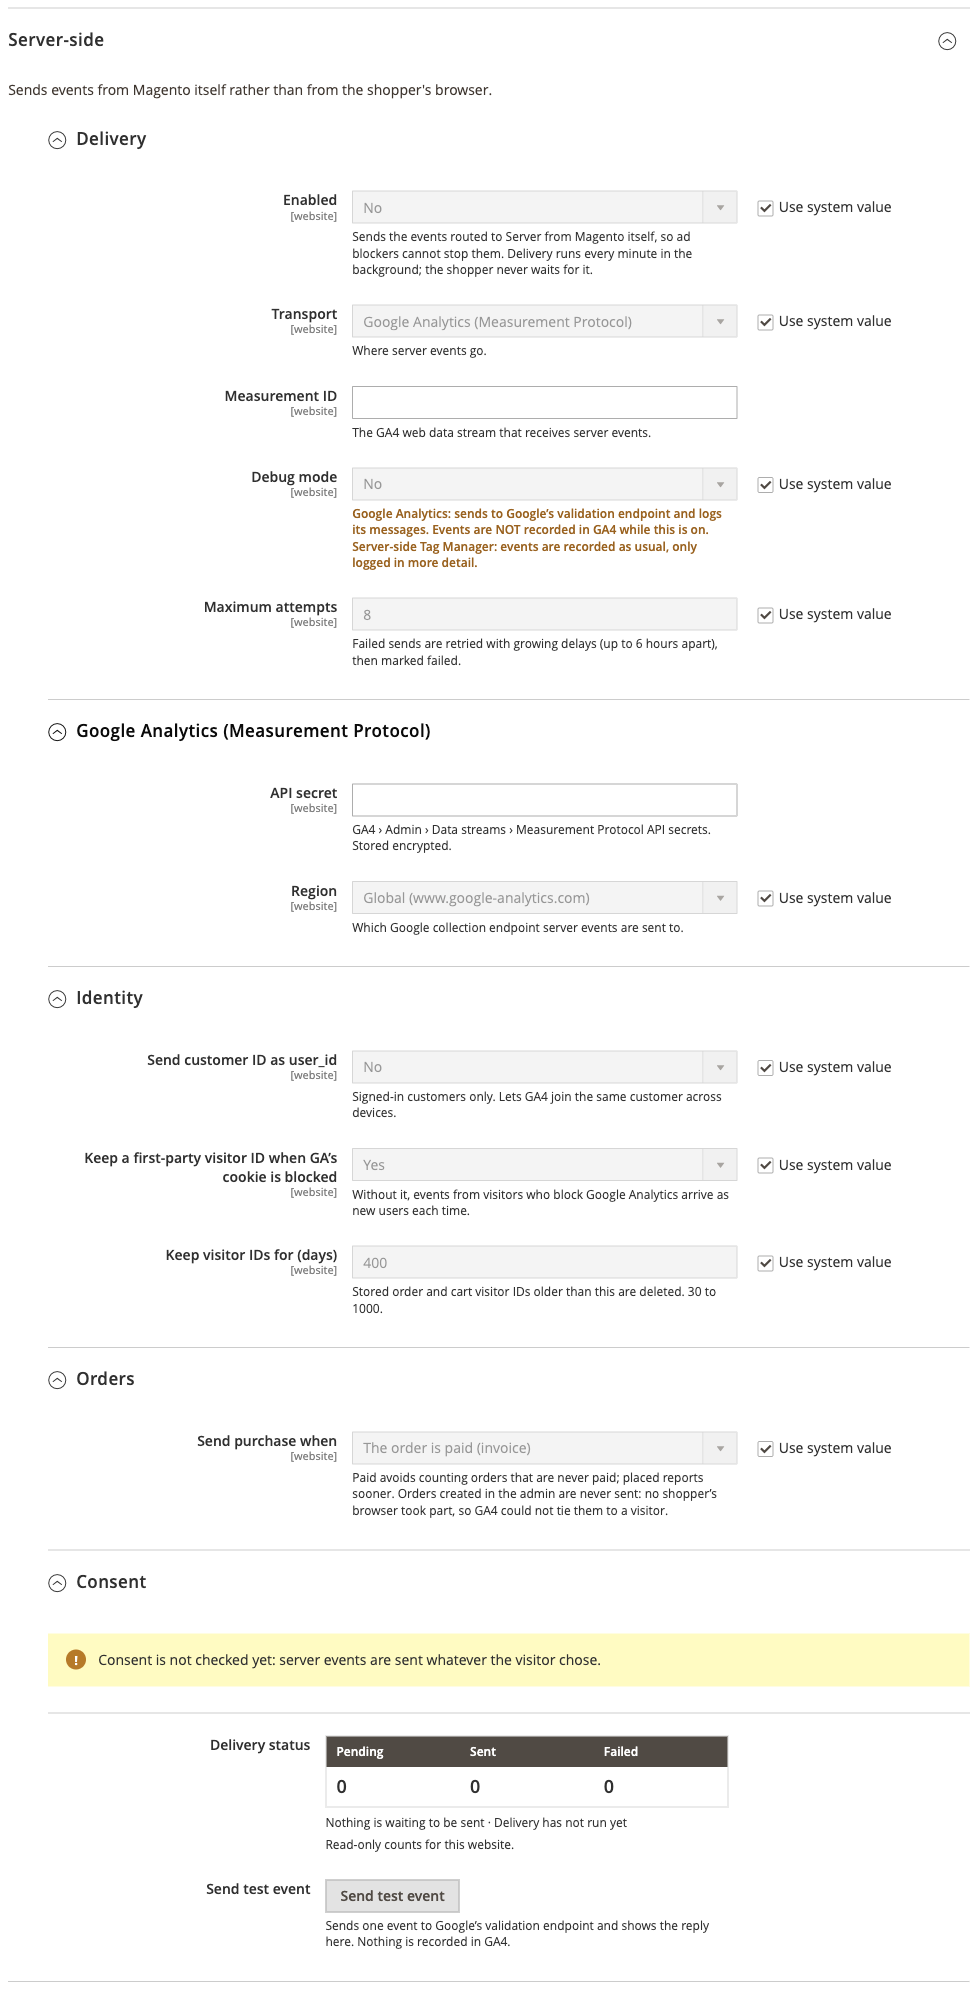
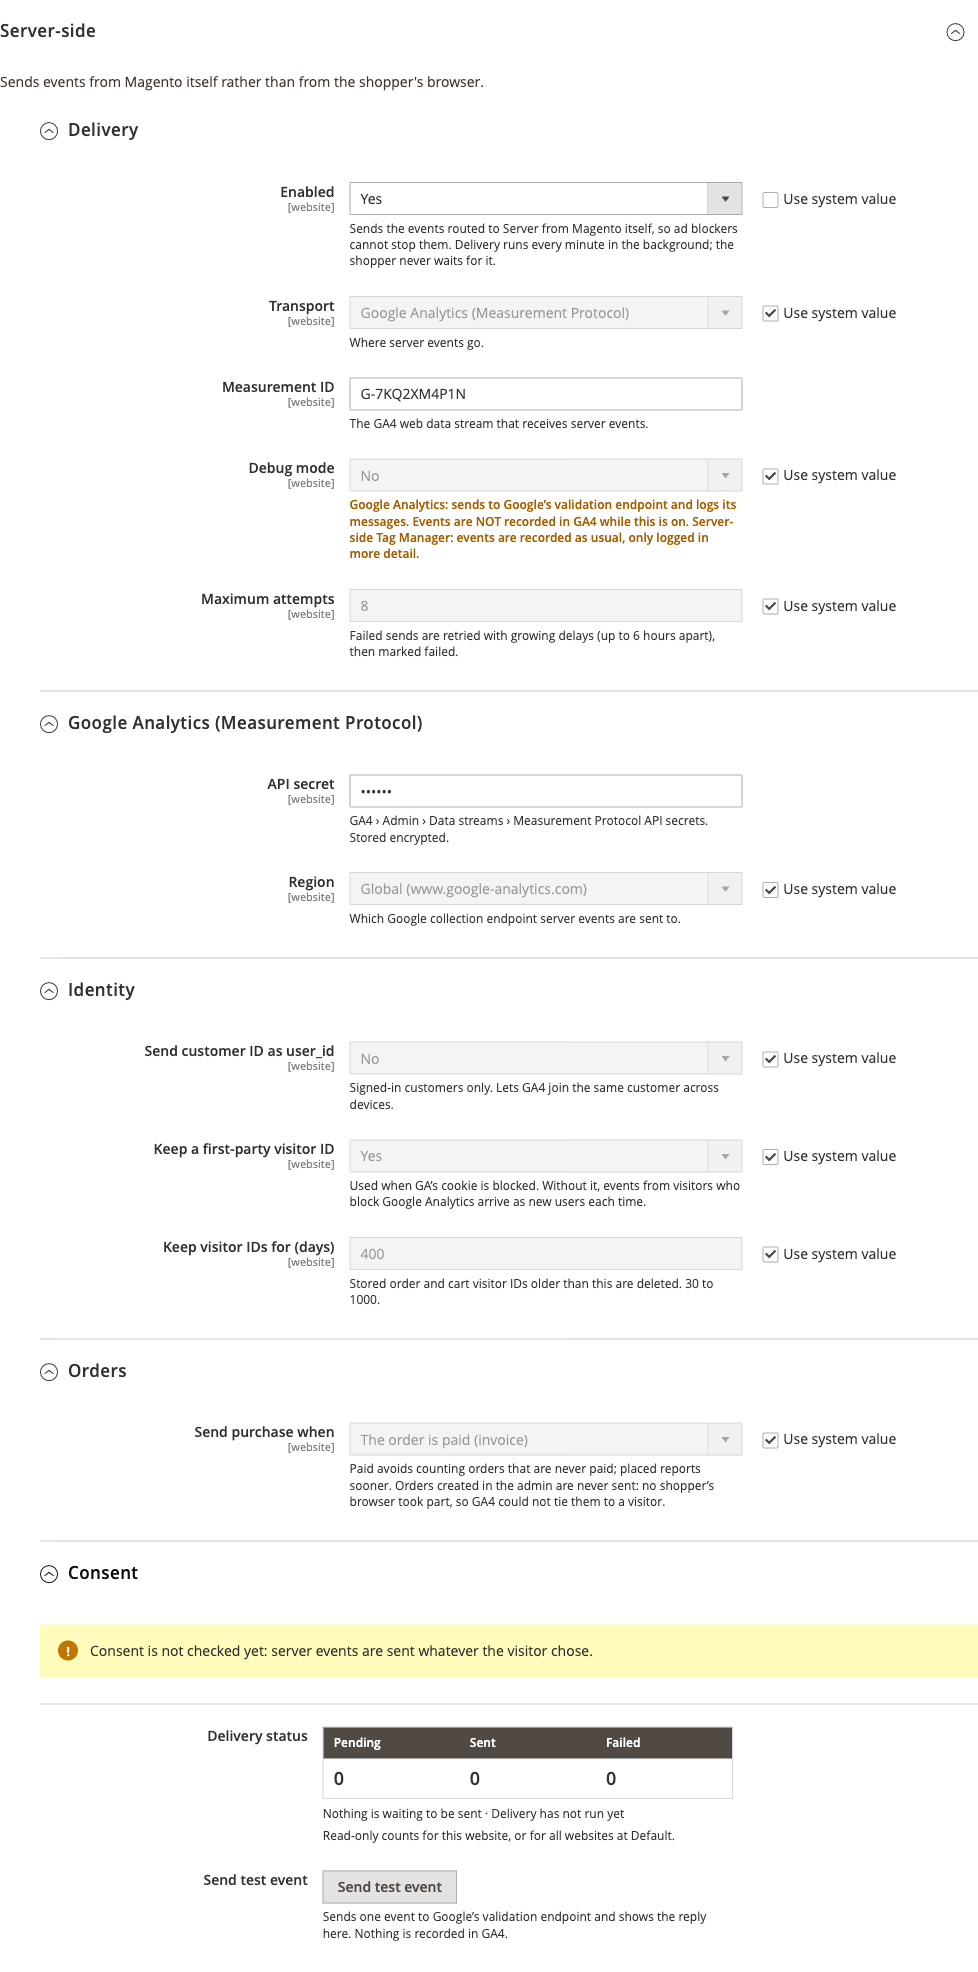
Release 1.0.1: guide and screenshots follow the 1.0.1 admin

diff --git a/docs/ga4-data-layer-guide.md b/docs/ga4-data-layer-guide.md
@@ -518,7 +518,7 @@ This step is present when the server-side modules are installed. *"Sends selecte
 | | **Region** | Measurement Protocol only: *Global* or *EU only*. |
 | | **Endpoint** / **API secret (optional)** | Server-side Tag Manager only: the container's https address with no path, and its own secret if it asks for one. |
 | Identity | **Send customer ID as user_id** | Signed-in customers only. |
-| | **Keep a first-party visitor ID when GA's cookie is blocked** | See section 7. |
+| | **Keep a first-party visitor ID** | Used when GA's cookie is blocked. See section 7. |
 | | **Keep visitor IDs for (days)** | 30 to 1000. |
 | Orders | **Send purchase when** | *The order is paid (invoice)* or *The order is placed*. Paid leaves out unpaid orders; placed reports sooner. |
 | Delivery | **Debug mode** | When on: *"Debug mode is on: events go to Google's validation endpoint and are NOT recorded in GA4."* |
@@ -651,7 +651,7 @@ Added by the server-side modules. Default and website scope only.
 | Server-side Tag Manager | **Endpoint** | `hryvinskyi_datalayer_server/sgtm/endpoint` | *(empty)* | `https://host[:port]`, no path or query, a public address. |
 | | **API secret (optional)** | `hryvinskyi_datalayer_server/sgtm/api_secret` | *(empty)* | Only when your server container asks for one. Never the GA4 secret. |
 | Identity | **Send customer ID as user_id** | `hryvinskyi_datalayer_server/identity/send_user_id` | No | Signed-in customers only. |
-| | **Keep a first-party visitor ID when GA's cookie is blocked** | `hryvinskyi_datalayer_server/identity/fallback_cookie` | Yes | Without it, visitors who block Google Analytics arrive as new users each time. |
+| | **Keep a first-party visitor ID** | `hryvinskyi_datalayer_server/identity/fallback_cookie` | Yes | Without it, visitors who block Google Analytics arrive as new users each time. |
 | | **Keep visitor IDs for (days)** | `hryvinskyi_datalayer_server/identity/retention_days` | 400 | 30 to 1000. |
 | Orders | **Send purchase when** | `hryvinskyi_datalayer_server/orders/purchase_trigger` | `paid` | The order is paid (invoice) · The order is placed |
 | Consent | *(notice)* | — | — | Consent is not checked yet: server events are sent whatever the visitor chose. |

diff --git a/CHANGELOG.md b/CHANGELOG.md
@@ -5,6 +5,12 @@ All notable changes to this project will be documented in this file.
 The format is based on [Keep a Changelog](https://keepachangelog.com/en/1.0.0/),
 and this project adheres to [Semantic Versioning](https://semver.org/spec/v2.0.0.html).
 
+## [1.0.1] - 2026-10-20
+
+### Changed
+
+- User guide: settings names and screenshots (Sales menu, Server-side group, wizard step 5) follow the 1.0.1 admin.
+
 ## [1.0.0] - 2026-10-20
 
 ### Added
